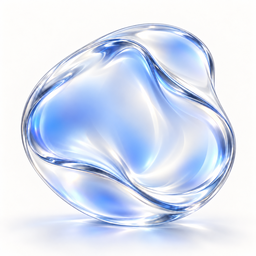
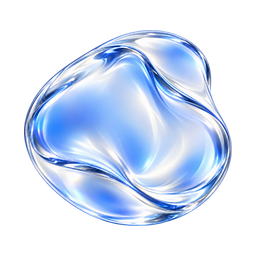
Preserve real glass alpha with explicit erasing and remove the brand mark's opaque white backing

diff --git a/NativeTests/KeyboardRuntimeTests.swift b/NativeTests/KeyboardRuntimeTests.swift
@@ -822,7 +822,8 @@ import SwiftUI
         // Match the shared keyline, not both dimensions: a clipboard must
         // retain its portrait silhouette instead of being padded with a disk.
         for size in [CGFloat(20), 28, 32] {
-            let bounds = try symbols.map { try alphaBounds(ToolArtwork.image(symbol: $0,size: size,scale: 3)) }
+            let artwork = symbols.map { ToolArtwork.image(symbol: $0,size: size,scale: 3) } + [ToolArtwork.brand(size: size)]
+            let bounds = try artwork.map { try alphaBounds($0) }
             let sides = bounds.map { max($0.width,$0.height) }
             XCTAssertLessThan(sides.max()! / sides.min()!, 1.16)
             for rect in bounds {
@@ -832,7 +833,7 @@ import SwiftUI
                 XCTAssertLessThan(abs(rect.midY-size*1.5),size*0.12)
             }
         }
-        let names = ["语言", "剪贴板", "表情", "单手", "外观", "工具栏", "兼容输入", "按键玻璃", "按键颜色", "文字颜色", "文字大小"]
+        let names = ["语言", "剪贴板", "表情", "单手", "外观", "工具栏", "兼容输入", "按键玻璃", "按键颜色", "文字颜色", "文字大小", "澈"]
         let scene = try XCTUnwrap(UIApplication.shared.connectedScenes.compactMap { $0 as? UIWindowScene }.first)
         let previous = scene.windows.first { $0.isKeyWindow }, window = UIWindow(windowScene: scene)
         defer { window.isHidden = true; previous?.makeKey() }
@@ -851,9 +852,10 @@ import SwiftUI
                     : UIColor(red: dark ? 0.36 : 0.85,green: dark ? 0.18 : 0.60,blue: dark ? 0.28 : 0.70,alpha: 1)
                 canvas.addSubview(stripe)
             }
-            for group in 0..<2 { for index in symbols.indices {
+            for group in 0..<2 { for index in names.indices {
                 let x = CGFloat(index%6)*70, y = CGFloat(group*176+(index/6)*84)
-                let icon = ToolIconView(symbol: symbols[index]); icon.frame = CGRect(x: x+19,y: y+12,width: 32,height: 32); canvas.addSubview(icon)
+                let icon: UIView = index < symbols.count ? ToolIconView(symbol: symbols[index]) : UIImageView(image: ToolArtwork.brand(size: 32))
+                icon.frame = CGRect(x: x+19,y: y+12,width: 32,height: 32); canvas.addSubview(icon)
                 let label = UILabel(frame: CGRect(x: x+2,y: y+53,width: 66,height: 20)); label.text = names[index]
                 label.textAlignment = .center; label.font = .systemFont(ofSize: 11); label.textColor = dark ? .white : UIColor(white: 0.12,alpha: 1); canvas.addSubview(label)
             } }

diff --git a/SharedUI/ToolArtwork.swift b/SharedUI/ToolArtwork.swift
@@ -70,9 +70,9 @@ import SwiftUI
               let data = try? Data(contentsOf: url), let source = UIImage(data: data) else {
             return image(symbol: "water.waves", size: size)
         }
-        let image = UIGraphicsImageRenderer(size: CGSize(width: size, height: size)).image { _ in
-            UIBezierPath(roundedRect: CGRect(x: 1,y: 1,width: size-2,height: size-2), cornerRadius: size*0.27).addClip()
-            source.draw(in: CGRect(x: 0,y: 0,width: size,height: size))
+        let format = UIGraphicsImageRendererFormat(); format.opaque = false
+        let image = UIGraphicsImageRenderer(size: CGSize(width: size, height: size),format: format).image { _ in
+            source.draw(in: CGRect(x: 0,y: 0,width: size,height: size),blendMode: .normal,alpha: 0.44)
         }
         cache[key] = image; return image
     }
@@ -98,10 +98,10 @@ import SwiftUI
             // keeps real alpha instead of an opaque simulated glass fill.
             for (offset,color) in [(CGFloat(0.4),UIColor.white.withAlphaComponent(0.58)),
                                    (CGFloat(-0.4),UIColor(hue: hue,saturation: 0.45,brightness: 0.50,alpha: 0.20))] {
-                let edge = UIGraphicsImageRenderer(size: CGSize(width: 32,height: 32),format: format).image { context in
-                    mask.withTintColor(color,renderingMode: .alwaysOriginal).draw(in: CGRect(x: 0,y: 0,width: 32,height: 32))
-                    context.cgContext.setBlendMode(.destinationOut)
-                    mask.draw(in: CGRect(x: offset,y: offset,width: 32,height: 32))
+                let edge = UIGraphicsImageRenderer(size: CGSize(width: 32,height: 32),format: format).image { _ in
+                    mask.withTintColor(color.withAlphaComponent(1),renderingMode: .alwaysOriginal)
+                        .draw(in: CGRect(x: 0,y: 0,width: 32,height: 32),blendMode: .normal,alpha: color.cgColor.alpha)
+                    mask.draw(in: CGRect(x: offset,y: offset,width: 32,height: 32),blendMode: .destinationOut,alpha: 1)
                 }
                 edge.draw(in: CGRect(x: 0,y: 0,width: 32,height: 32))
             }
